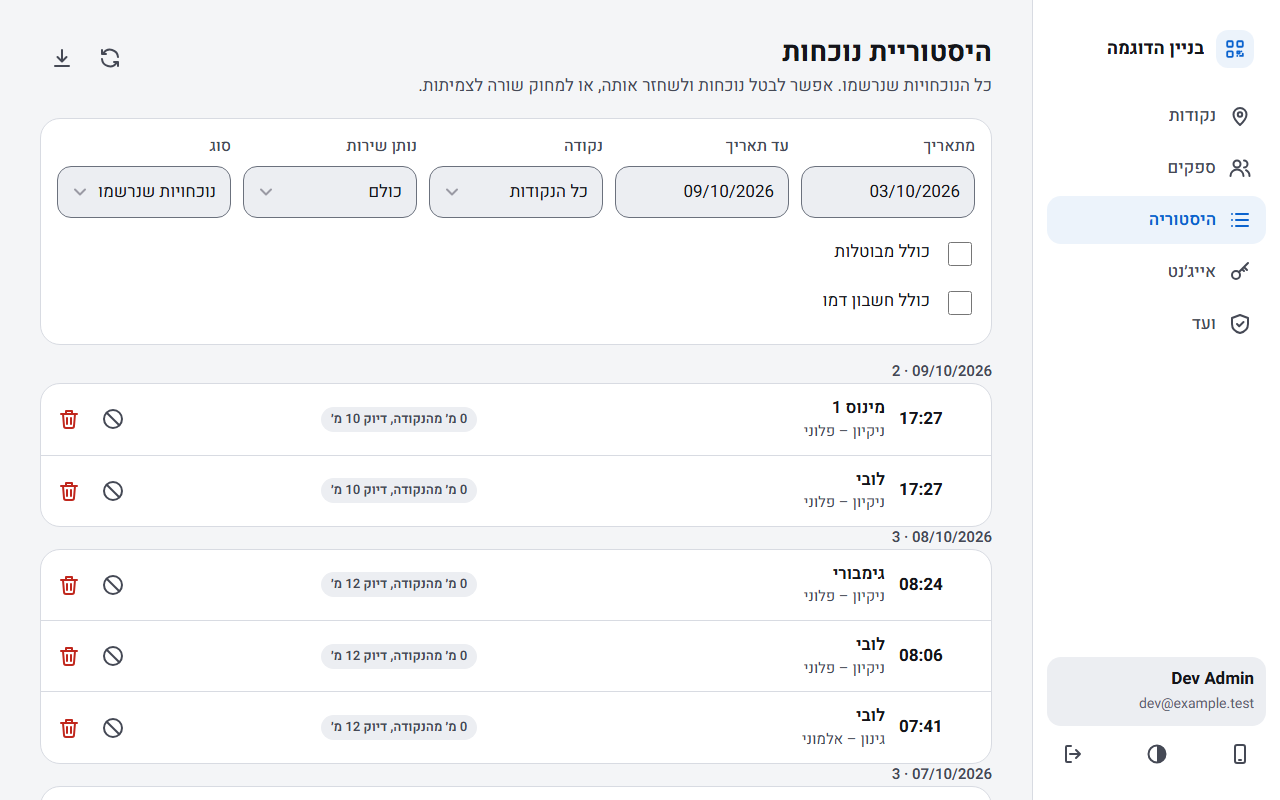
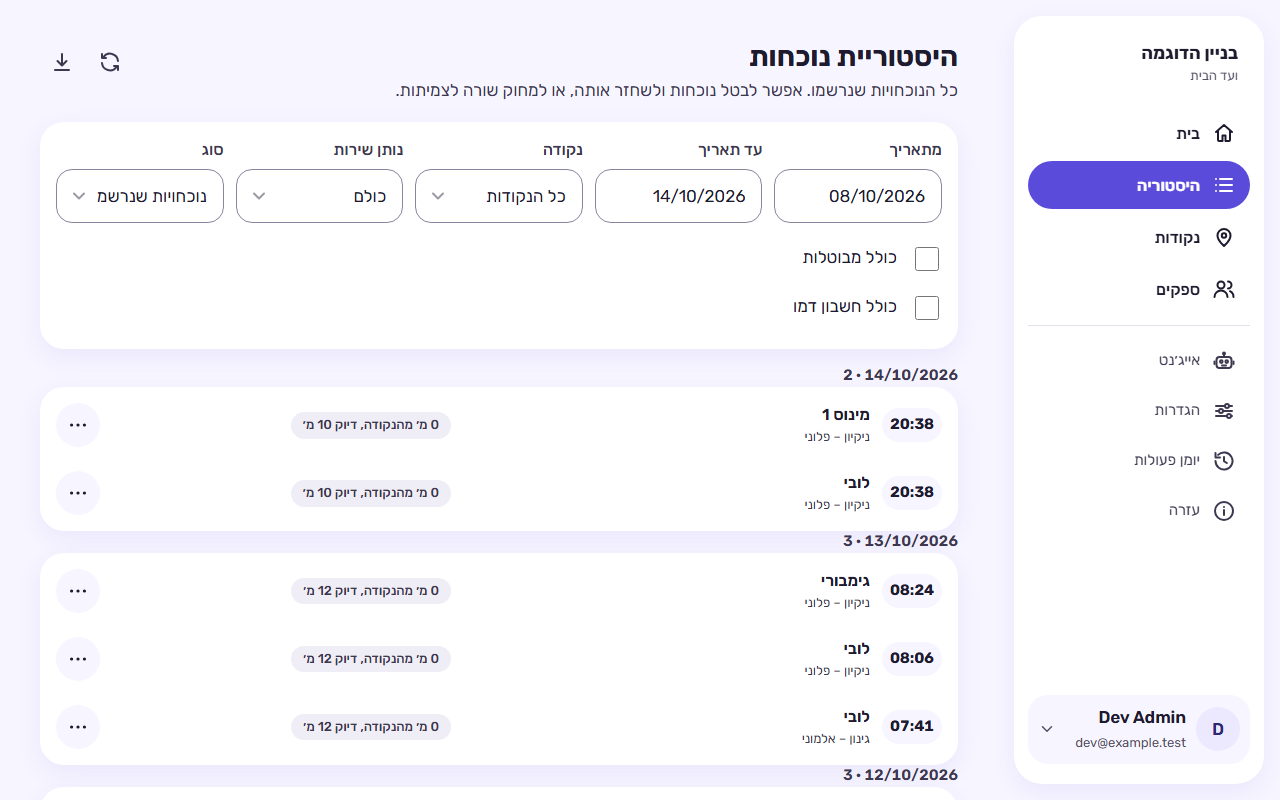
docs(design): the baseline and the screenshots after the redesign (#239)
🟢 **Documents, pictures and the script that takes them.** No code of the
app, nothing under `.github/`, `scripts/check-*`,
`.claude/`, `AGENTS.md` or `CLAUDE.md`, no migration, no budget, no e2e
baseline. All 18 changed files are on the list of
`scripts/vercel-ignore.mjs` (checked with its own `isSkippable` on the
changed files), so production is not redeployed when
this merges.

Task T8, the last of the topic "visual redesign B" (#222 to #238): the
documents describe the new look and measure it.

## Two things for the owner to know

1. **Two budgets have no headroom left:** the committee chunk's CSS
(5,828 of 5,828) and the precache (322,990 of 322,990).
This is in the baseline section; the next change that adds a byte there
needs a raised budget or something deleted first.
2. **`.claude/skills/ui-review/SKILL.md` still lists Heebo among the
fixed tokens.** A skill changes only in its own pull
request, so this one does not touch it; the coordinator raises it
separately.

## What changed

- **`docs/design/baseline.md`: a new dated section, 14/10/2026 (master
6ce5019).** A table of what changed for a person, with
the pull requests and the decisions D1 to D13; then the automated
measurements, the size of each budget against its
budget, the six font files and their precache bytes, what is still not
measured, and what is known and not fixed. Each
number has the command next to it. Earlier sections are untouched; the
section says what it replaces in them.
[…]

diff --git a/docs/design.md b/docs/design.md
@@ -21,8 +21,8 @@ the pilots and sessions with users: [`design/baseline.md`](design/baseline.md) a
 An entry is the rule, then **Why** (written for this app: field workers on phones, often old ones, sometimes offline;
 volunteer committee members who are not technical; Hebrew first, right to left; four languages in the provider app),
 **Source** (with its evidence level: research, standard, platform or expert opinion) and **Check**: an existing test, or
-`planned: <name>` for a check that another branch is adding (its pull request replaces the word with the path), or
-`review` when only a person or a reviewing agent can judge it. What `AGENTS.md` already holds (dates, the four
+`planned: <name>` for a check that another branch is adding, or `review` when only a person or a reviewing agent can
+judge it. What `AGENTS.md` already holds (dates, the four
 languages, phone and computer together, the order of tile actions, the Content-Security-Policy) is not repeated here.
 
 ## Forms and errors
@@ -61,10 +61,7 @@ and never clears what was typed.**
 - **Source:** GOV.UK error message, as in F3 (research); Impeccable
   [`harden`](https://github.com/pbakaus/impeccable/blob/main/skill/reference/harden.md), "Preserve user input on
   error"; Vercel, Forms, "Warn on unsaved changes before navigation" (expert opinion).
-- **Check:** `tests/components/dialog-unsaved-changes.test.jsx` (the dialog and every form of the committee app that has one),
-  and the tap outside and Esc in a real browser in `e2e/admin.spec.js`. The dialog asks only when a form passes `dirty` to
-  `Modal` (`useDirty` in `src/admin/ui.jsx`), and passes `busy` while its save is on its way (Esc and a tap outside then do
-  nothing), so a new form with fields does the same and adds its case to that test.
+- **Check:** `tests/components/dialog-unsaved-changes.test.jsx` (a new form adds its case) and `e2e/admin.spec.js` (tap outside, Esc).
 
 **F5. Text inputs are at least 16px on phones, so that iOS does not zoom.**
 - **Why:** iOS Safari zooms into a field under 16px and stays zoomed, which leaves the form cropped. The cure is the
@@ -72,7 +69,7 @@ and never clears what was typed.**
 - **Source:** Emil Kowalski
   [`mobile-native`](https://github.com/emilkowalski/skills/blob/main/skills/mobile-native/SKILL.md), "Page zooms into
   the input"; Vercel, Targets and input (expert opinion).
-- **Check:** `planned: e2e input font size`.
+- **Check:** `e2e/reflow.spec.js`, "F5 input font size on a phone".
 
 **F6. Never block paste. Give fields the right `autocomplete` and input type, so password managers and keyboards help.**
 - **Why:** a provider who signs in by password on a phone saves retyping when a password manager can fill the field,
@@ -99,8 +96,7 @@ deleting (see `AGENTS.md`, Rules for every change).**
 - **Source:** Impeccable
   [`clarify`](https://github.com/pbakaus/impeccable/blob/main/skill/reference/clarify.md), "Actions and navigation";
   Vercel, Feedback, "Confirm destructive actions or provide Undo window" (expert opinion).
-- **Check:** `review`. `e2e/admin.spec.js` measures the order of the actions in the menu of each tile and of each row of the History (the red delete last), not the wording
-  or the confirmation.
+- **Check:** `review`; `e2e/admin.spec.js` measures the order of the menu actions (the red delete last), not the wording.
 
 ## States
 
@@ -129,32 +125,34 @@ deleting (see `AGENTS.md`, Rules for every change).**
 ## Touch and layout
 
 **T1. Touch targets are at least 24 by 24 CSS px, and primary actions aim for 44.**
-- **Why:** field workers tap one-handed on old phones, often in a hurry. The committee uses the same buttons on a phone.
-  Phone and computer are changed together (`AGENTS.md`).
+- **Why:** field workers tap one-handed on old phones, often in a hurry, and the committee uses the same buttons.
 - **Source:** [WCAG 2.5.8](https://www.w3.org/WAI/WCAG22/Understanding/target-size-minimum.html) (standard, AA);
   [Apple HIG, Accessibility](https://developer.apple.com/design/human-interface-guidelines/accessibility) (platform;
   iOS default control size is 44 by 44 pt).
-- **Check:** `planned: axe wcag22aa target-size`, and `expectTouchTargets` in `e2e/error-boundary.spec.js` (44px high,
-  on the crash screen only).
+- **Check:** axe `wcag22aa` in `e2e/a11y.spec.js`; `expectTouchTargets` in `e2e/error-boundary.spec.js` (44px, crash screen).
 
 **T2. No horizontal scroll at 320px in any of the four languages, even with worst-case text (long names, plurals).**
-- **Why:** Russian and English words run longer than Hebrew ones and the layout starts from Hebrew, and the committee
-  types the names of providers and points. Plan for 30 to 40 percent more text than the source language.
+- **Why:** Russian and English run longer than Hebrew, and the committee types the names: plan for 30 to 40 percent more text.
 - **Source:** [WCAG 1.4.10](https://www.w3.org/WAI/WCAG22/Understanding/reflow.html) (standard); Emil Kowalski
   [`break-ui`](https://github.com/emilkowalski/skills/blob/main/skills/break-ui/SKILL.md); Impeccable `harden`
   (expert opinion).
-- **Check:** `planned: e2e 320px reflow` (`fitsTheWidth` in `e2e/error-boundary.spec.js` does it for one screen).
+- **Check:** `e2e/reflow.spec.js`, "T2 reflow at 320 px".
+
+**T3. A floating bar hides nothing a tap can reach: on a phone the page fades into the background colour behind it, and
+the end of every page stands clear above the fade.**
+- **Why:** content peeked out under and beside the floating tab bar, and a tap could reach a control that nobody could see.
+- **Source:** this project; the owner's decision of 14/10/2026 (D10 of the redesign), made on his iPhone.
+- **Check:** `e2e/admin.spec.js`, "the page fades out behind the tab bar of the phone", at 360 and 320 px.
 
 ## RTL and languages
 
 **R1. Layout uses logical CSS properties (inline and block). A physical property appears only in the list of exceptions,
 each with its reason.**
 - **Why:** one stylesheet serves Hebrew and Arabic (right to left) and English and Russian (left to right). A
-  `margin-left` is right in one and wrong in the other. The safe-area padding in `src/ui/ui.css` follows the physical
-  notch and is the kind of exception the list holds.
+  `margin-left` is right in one and wrong in the other.
 - **Source:** Ahmad Shadeed, [RTL Styling 101](https://rtlstyling.com/posts/rtl-styling/) (expert opinion, paraphrased);
   [Apple HIG, Right to left](https://developer.apple.com/design/human-interface-guidelines/right-to-left) (platform).
-- **Check:** `planned: tests/design-css.test.js` (it holds the list of exceptions).
+- **Check:** `tests/design-css.test.js` (the list of exceptions is `tests/design-budget.json`, each with its reason).
 
 **R2. Mirror icons that show direction (back, next, progress, a list's chevron). Never mirror numbers, clocks, media
 controls, the QR code, logos or checkmarks.**
@@ -166,37 +164,24 @@ controls, the QR code, logos or checkmarks.**
 - **Check:** `review`.
 
 **R3. Isolate mixed-direction runs (names, codes, times) so that they keep their order.**
-- **Why:** a Latin company name or a code inside Hebrew text scrambles the punctuation and digits next to it.
-  `translate()` in `src/i18n/core.js` wraps every inserted value in first-strong isolates; a value shown outside a
-  translated string gets `dir="auto"` (or `<bdi>`).
+- **Why:** a Latin company name or a code inside Hebrew text scrambles the punctuation and digits next to it;
+  `translate()` in `src/i18n/core.js` isolates every inserted value.
 - **Source:** [Unicode UAX #9](https://www.unicode.org/reports/tr9/) and the W3C
   [inline bidi markup article](https://www.w3.org/International/articles/inline-bidi-markup/) (standard).
-- **Check:** `src/i18n/core.js` and its test in `tests/i18n.test.js`.
+- **Check:** `tests/i18n.test.js`.
 
 ## Visual system
 
 **V1. Colours, font weights, spacing, radii and font sizes come from the tokens.**
 - **Why:** one set of tokens keeps the light and dark themes in step: a colour written in place passes in one theme and
-  fails in the other. The sizes follow the same rule: spacing (`--w-space-*`), radius (`--w-radius-*`) and font size
-  (`--w-font-*`) are three families of tokens, defined once on `:root` in `src/ui/base.css` next to the weight tokens, and
-  a size that has a token is written as the token. The scales are consolidated (the rare radii and font sizes
-  were folded into their neighbours), and a size that must keep its exact value, such as the room above the tab bar, is a
-  named layout constant (`--w-layout-*`, next to them), so no literal is left in a spacing, radius or font-size declaration.
-  The colours are tokens of each theme in `src/ui/ui.css` (the dark block, and the light one that sets every token again),
-  in these families: the surfaces (`--w-bg`, `--w-surface`, `--w-surface-2`, `--w-surface-3`); the lines (`--w-border`,
-  and `--w-field-border` with its `-hover`, 3:1 or more on every surface); the text (`--w-text`, `-2`, `-3`); the primary
-  colour (`--w-primary`, `-hover`) and the colour of the text on it (`--w-on-primary`, white in light and dark in dark,
-  because white on the light violet of the dark theme fails); the focus (`--w-focus`, `--w-focus-ring`); the four states,
-  each with its background and its line (`--w-success`, `--w-warn`, `--w-danger`, `--w-info`, `-bg`, `-line`); the
-  summary card and its text (`--w-hero`, `--w-on-hero`); four tints for tiles, chips and badges, each with the ink that is
-  read on it (`--w-tint-violet`, `-peach`, `-mint`, `-sky`, and `-ink`); the steps of the count cells (`--w-count-1` to
-  `4`); and the overlay and the three shadows (`--w-overlay`, `--w-shadow` for a card, `--w-shadow-raised` for the summary
-  card, `--w-shadow-pop` for a menu or a sheet). The page around the apps and the browser's bar take `--w-bg`. One
-  typeface, Rubik, is pinned, with every subset (Hebrew, Latin, Cyrillic, Arabic) in the offline precache.
+  fails in the other. Spacing (`--w-space-*`), radius (`--w-radius-*`) and font size (`--w-font-*`) are tokens on `:root` in
+  `src/ui/base.css`, and a size that must keep its exact value, such as the room above the tab bar, is a named layout
+  constant (`--w-layout-*`). The colours are tokens of each theme in `src/ui/ui.css`; the text on the primary colour is
+  white in light and dark in dark, because white on the light violet of the dark theme fails. One typeface, Rubik, is
+  pinned, with every subset (Hebrew, Latin, Cyrillic, Arabic) in the offline precache.
 - **Source:** this project; Refactoring UI (the advice to fix the spacing, sizing and type scales in advance;
   [book](https://refactoringui.com/), expert opinion, paraphrased).
-- **Check:** `tests/contrast.test.js`, `tests/typography.test.js`, and `tests/design-css.test.js` (a literal of a size that
-  has a token fails and names the token; the budget in `tests/design-budget.json` counts the sizes that have none).
+- **Check:** `tests/contrast.test.js`, `tests/typography.test.js`, `tests/design-css.test.js` (and `tests/design-budget.json`).
 
 **V2. Text has 4.5:1 contrast, UI parts and focus rings 3:1, in both themes, including every fixed colour (the danger
 button, the select chevron).**
@@ -215,13 +200,27 @@ button, the select chevron).**
 
 **V4. Motion is short (about 200 ms), never on an action repeated many times a day, respects `prefers-reduced-motion`,
 and adds no animation library (the size budget).**
-- **Why:** a scan or a row action used all day should answer at once, and an old phone drops frames on long
-  animations. A library is bytes that every phone downloads. `src/ui/ui.css` already shortens all motion for
-  `prefers-reduced-motion`.
+- **Why:** a scan or a row action used all day should answer at once, an old phone drops frames on long animations,
+  and a library is bytes that every phone downloads.
 - **Source:** Emil Kowalski
   [`emil-design-eng`](https://github.com/emilkowalski/skills/blob/main/skills/emil-design-eng/SKILL.md) (expert opinion,
   paraphrased); [WCAG 2.3.3](https://www.w3.org/WAI/WCAG22/Understanding/animation-from-interactions.html) (standard, AAA).
 - **Check:** `review`, and the bundle budget (`npm run size`, `scripts/check-bundle-size.json`).
+
+**V5. At the top of a committee screen the one filled thing is the action: an add button is a pill that says what it adds,
+and the person is a quiet circle with their Google photo, or their initial when there is no photo or it does not load.**
+- **Why:** two solid violet circles, the account and a round "+", stood one above the other, and the eye did not know where
+  to look; a lone "+" does not name what it adds (F7). A missing, refused or failed photo shows the initial, never a broken
+  picture, and the photo is decoration (`alt=""`) because the name is beside it.
+- **Source:** this project; the owner's decisions of 14/10/2026 (D11 and D12 of the redesign), made on his iPhone.
+- **Check:** `tests/admin-icon-buttons.test.js`, `e2e/admin.spec.js` (the headings), `tests/contrast.test.js`,
+  `tests/components/member-face.test.jsx`, `e2e/admin-photo.spec.js`.
+
+**V6. The sign for "scan" is a frame of four corner brackets, in the apps and in the app icon, and the icon is that frame
+in white on the primary violet.**
+- **Why:** the earlier drawing of a QR code read as a grid of apps, and the Home Screen icon was still the old blue.
+- **Source:** this project; the owner's decision of 14/10/2026 (D13 of the redesign), made on his iPhone from four options.
+- **Check:** `tests/pwa-icons.test.js`, `tests/png.test.js`; the signs inside the apps are `review` and `e2e/visual.spec.js`.
 
 ## Copy
 

diff --git a/docs/design/baseline.md b/docs/design/baseline.md
@@ -143,3 +143,123 @@ of the session script ("how many visits a provider made last week") now goes thr
   Filter ("סינון") button.
 - Not checked on a real iPhone yet: the two sheets (focus, the room above the home indicator) and the layout that a
   turned tablet keeps while a date is half typed. `docs/manual-ios-checklist.md` before the next release.
+
+## 14/10/2026, after the redesign to direction B (master 6ce5019)
+
+The same measurements as above, after #222 to #238: the twelve pull requests of the topic "visual redesign B". The
+owner's decision of 14/10/2026 replaced the one of 11/10/2026 that kept Heebo and the blue. Every number below was
+printed by the command next to it, run on 14/10/2026 on master at 6ce5019 with this pull request (documents, pictures
+and the script that takes them) on top, one Playwright project at a time, in a scratch schema. A row says so when a
+number needed a temporary line of code to be counted; that line was taken out again.
+
+### What changed
+
+| What a person sees | Before | Now | Pull request, decision |
+|---|---|---|---|
+| The typeface and the colours | Heebo and the blue; Russian and Arabic had no letters in it, so they read in the device's font | Rubik and a violet palette, light and dark; all four scripts are kept for use without a network; the edge of a field is at least 3:1 | #223 (D2, D4) |
+| Buttons, fields, cards, dialogs | on a phone only the filters and "More" opened from the bottom | pill buttons, cards that rest on a shadow, and on a phone every dialog is a sheet from the bottom (a computer keeps the centre) | #225 (D7) |
+| The actions of a tile or a row | four icon buttons on a point tile; icons on a history row | an edit button and a "more" button; the rest are in its menu, in one order, with the red delete last: points, providers, members, keys, history rows | #222, #231, #234 (D6) |
+| The top of the committee app | three icons: the provider app, light or dark, sign out | one account circle with a menu that holds all three; a quiet violet disc with the member's first letter | #227, #236 (D11) |
+| The member's face | the first letter only | the member's Google photo in the circle and on the member's card, and the letter when there is no photo or it does not load | #237 (D12) |
+| The tab bar on a phone | a bar across the bottom, every tab named | a floating pill, only the current tab named; the page fades out behind it, so nothing shows under or beside it | #227, #235 (D10) |
+| The add buttons | a round "+" | a pill that says what it adds (new point, new provider, new committee member, new key) | #236 (D11) |
+| Home | a table of the counts of seven days | a summary card with a bar for each day (DD/MM heads under the bars), the providers of the week, and tiles | #228 (D5) |
+| History and the audit log | rows divided by edges, and icon buttons on a history row | a soft card for each day, the time in a pill, one "more" button on a row | #234 |
+| The provider app | the previous look | cards, a violet card with three steps, result screens with a ring and a status circle (amber for "saved on the phone"), new texts in the four languages | #226 (D8, D9) |
+| The app icon and the scan sign | the Home Screen icon was the old blue; the QR drawing read as a grid of apps | a white scan frame on the app's violet, the same sign inside the apps, a robot head for the agent, a lock with a plus for a new password | #238 (D13) |
+| What production showed on the way | | each pull request was deployed when it merged, so for hours on 14/10/2026 the new colours stood beside some old structure | D1 |
+
+Three of these (D10, D11, D13) were findings from the owner's own iPhone on 14/10/2026, not from the five sessions below.
+
+What this section replaces in the ones above: the typeface and the blue that the decision of 11/10/2026 kept; the four
+icon buttons of a point tile (the second known problem of the first section, fixed by #187 and now gone with the icons);
+the committee tab bar of 12/10/2026 ("History, Points, Providers and More"), which is now Home, History, Points,
+Providers and More, as a floating pill; and "the screen that opens first: History", which Home has been since #201
+(13/10/2026, before the redesign).
+
+### Automated, run on every pull request
+
+| What | Value | Command or file |
+|---|---|---|
+| Accessibility violations (WCAG 2.1 A and AA, the WCAG 2.2 AA target size, axe best practices; both apps, light and dark) | 0 in 197 scans: 60 of the provider app, 129 of the committee app and 8 of the shared components; `e2e/a11y-baseline.js` lists no exception (0 entries) | `npx playwright test e2e/a11y.spec.js e2e/reflow.spec.js --project=android-chrome`: 34 passed, and the same with `--project=iphone-webkit`: 34 passed (9 tests of `e2e/a11y.spec.js` and 25 of `e2e/reflow.spec.js` in each). The scans were counted with a temporary line in `expectNoA11yViolations` (`e2e/fixtures.js`), in a separate run of `e2e/a11y.spec.js` on android-chrome (9 passed) |
+| Reflow at 320 px, with worst-case text, in the four languages of the provider app and in the committee app (rule T2) | no screen scrolls sideways | the 25 tests of `e2e/reflow.spec.js`, in the run above |
+| Inputs under 16 px on a phone (rule F5) | none | the two F5 tests of `e2e/reflow.spec.js`, in the run above |
+| Physical CSS properties outside the list of exceptions (rule R1) | 0; the list holds 4, each with its reason | `tests/design-css.test.js`, `tests/design-budget.json` |
+| Hard-coded spacing, radius and font-size values (rule V1, may only go down) | 0 (`literalBudget` is empty) | `tests/design-budget.json` |
+| Colour pairs, light and dark (rule V2) | 79 pairs in each theme, 158 in all (53 at 4.5:1 and 26 at 3:1 in each), all pass; 165 tests in the file | `npx vitest run tests/contrast.test.js` |
+| Visual baselines (both apps, phone and computer, light and dark) | 86 pictures: the 68 of 12/10/2026, and 4 for Home (#201), 4 for the account menu (#227), 2 for "saved on the phone" (#226), 8 for the photo (#237) | `ls e2e/__screenshots__/visual.spec.js \| wc -l`, and `git log --diff-filter=A 961a610..6ce5019` over that folder |
+| How strict the pictures are | a pixel counts when its colour moved further than 0.01; Playwright's default is 0.2 | `PIXEL_THRESHOLD` in `e2e/visual.spec.js` (owner decision of 14/10/2026, #233) |
+
+The thinnest colour pair in the light theme is the field border on the second surface at 3.07:1 (it needs 3:1); the
+thinnest text pair is the success green on its own tint, 4.67:1 (it needs 4.5:1). In the dark theme the thinnest is the
+focus ring on the darkest step of the count cells at 3.20:1, a token that no screen draws any more. They were read with a
+temporary copy of `tests/contrast.test.js` that logged each ratio. The pictures are compared on the Linux runner only
+(`docs/testing.md`), so this pull request's CI, not a laptop, is the check on them; this pull request changes none.
+
+### The size of what a phone downloads
+
+| Part | Bytes (brotli) | Budget | Before (12/10/2026) |
+|---|---|---|---|
+| Provider app, entry JS | 79,482 | 86,016 | 78,482 |
+| Provider app, entry CSS | 4,700 | 5,120 | 4,176 |
+| Committee app, chunk JS | 40,069 | 41,984 | 77,792 |
+| Committee app, chunk CSS | 5,828 | 5,828 | 9,442 |
+| Committee app, lazy chunks JS (the map) | 42,799 | 47,104 | in the chunk above |
+| Committee app, lazy chunks CSS (the map) | 5,668 | 6,656 | in the chunk above |
+| Precache, total | 322,990 (21 files) | 322,990 (21 files) | 239,776 (16 files) |
+
+`npm run size`, `scripts/check-bundle-size.json`, on an export of the commit with LF line endings (`git archive` with
+`core.autocrlf` off), which is what CI builds. The map left the committee chunk for a lazy chunk on 14/10/2026, which is
+not part of the redesign: it is why the committee chunk is about half of what it was, and the two lazy rows are new. The
+committee app's JavaScript in all is 82,868 (it was 77,792) and its CSS 11,496 (it was 9,442). The budgets that the
+redesign raised, each with its reason at the top of its pull request: the provider app's entry CSS from 4,608 to 5,120
+(#226), the committee chunk's CSS from 5,632 (set when the map left it) to 5,828 (#231, #234, #235, #237), and the
+precache from 256,000 to 322,990 (#223 to #238; its count of files went from 17 to 21, two of them the map's).
+
+**There is no headroom left** in two budgets: the committee chunk's CSS (5,828 of 5,828) and the precache (322,990 of
+322,990, 21 files of 21). The next byte of CSS in the committee app, or of a font or an icon, needs a raised budget in a
+pull request that says why, or something deleted first.
+
+### The fonts
+
+| File (`assets/rubik-<subset>-wght-normal`) | On disk (bytes) | In the precache (brotli) |
+|---|---|---|
+| hebrew | 9,348 | 9,336 |
+| cyrillic-ext | 12,388 | 12,387 |
+| cyrillic | 15,112 | 15,116 |
+| latin-ext | 19,400 | 19,398 |
+| arabic | 32,468 | 32,472 |
+| latin | 35,348 | 35,319 |
+| Six files | 124,064 | 124,028 |
+
+Six files cover the four scripts (Hebrew, Latin, Cyrillic, Arabic), and every one is in the precache (D2), so the
+provider app reads in its own typeface in Hebrew, English, Russian and Arabic with no network: they are 38.4 percent of
+the precache. The rest of the 322,990 bytes: the JavaScript and CSS of the provider app, the committee app and the map
+180,496; the three PNG icons 16,308 and the two SVG icons 638; the service worker's small files (the theme script, the
+page, the manifest) 1,520. The sizes on disk are from `vite build`, the bytes in the precache are from the precache list
+of `dist/sw.js`, read with `precacheUrls` and `sizeOfUrl` of `scripts/check-bundle-size.mjs`; the groups are sums of
+those.
+
+### Still not measured
+
+The friction in production and the five sessions with people, as in the first section. The sessions are where the new
+look (the icon-only tab bar, the account circle, the "more" menu) would be tried by the people who use it; the script
+has no question about them yet.
+
+### Known and not fixed
+
+- On a Windows checkout with `core.autocrlf=true`, `npm run size` measures 323,015 bytes for the precache, 25 over the
+  budget, because the working tree has CRLF in `index.html`, the theme script and the SVG icons. CI builds with LF and
+  measures 322,990. The numbers above are from the LF export.
+- Kept only because a test pins them, with no screen using them: the count-cell tokens `--w-count-1` to `4` and their
+  contrast checks (#228), and the `.a-icon-btn--danger` rules and `tone="primary"` of `IconButton` (#234, #236).
+- The new things are not checked on a real iPhone yet: the account circle with and without a photo, the fade behind the
+  tab bar and the new icon (`docs/manual-ios-checklist.md`, items 1 and 12, before the next release).
+- `docs/design.md` is at its limit of 250 lines (it was 251 after #223). This pull request adds the rules T3, V5 and V6
+  and makes room by shortening the entries whose check now exists (V1, V4, F4, R1, R3, T1, T2, D1) and by turning the
+  `planned:` checks of F5, T1, T2 and R1 into links to their tests. Two `planned:` checks are still not built: F2 (E2E
+  per form) and the contrast of the fixed colours in V2 (the select chevron, `#9a9aa4`, has no contrast test). The next
+  rule makes room the same way.
+- `.claude/skills/ui-review/SKILL.md` still lists Heebo among the fixed tokens (a skill changes only in its own pull
+  request). The `frontend-design` row of `docs/design/sources.md` said that the owner kept the current identity; this
+  pull request corrects it.

diff --git a/docs/design/sources.md b/docs/design/sources.md
@@ -29,7 +29,7 @@ column says what was read); a fact that could not be confirmed says "unverified"
 | Emil Kowalski other skills (`animate`, `animate-expo`, `review-animations`, `improve-animations`, `find-animation-opportunities`, `animation-vocabulary`, `apple-design`, `write-swift`, `pick-ui-library`, `prototype`, `ask-sonner`) | <https://github.com/emilkowalski/skills> | MIT, as above | expert opinion | rejected | Only their descriptions were read: motion design, React Native, Swift, a toast library, choosing libraries, side-by-side prototypes. V4 keeps motion small and the size budget rules out new libraries. | `e8a175de22ae1e49370fc144c1f3bb9aeedf988d` |
 | Impeccable: `clarify`, `harden`, `onboard` | <https://github.com/pbakaus/impeccable> (`skill/reference/`) | Apache-2.0 (LICENSE; NOTICE.md lists third-party material). Keep the licence and notice and mark local changes. | expert opinion | adopted as text (open licence, quoted with attribution) | F4, F7, D1, S1, T2, R1. Local changes when vendoring: the hand-off lines to `{{command_prefix}}impeccable polish` and the "Additional context needed" prompts are written for an agent and are dropped; `harden` shows `Intl.DateTimeFormat` for dates, which `AGENTS.md` forbids for anything a person sees; em dashes become hyphens. | `c63b8dd7dd5a5f3c32eaabe1af76d0694f863ed2` |
 | Impeccable binary, CLI, hooks and the other commands | <https://github.com/pbakaus/impeccable> | Apache-2.0, as above | expert opinion | rejected | The skill runs a launcher that downloads and starts an engine binary, and installs an edit hook for Claude Code and others. This repo has its own hook (`scripts/hooks/check-edit.mjs`) and keeps downloaded executables out. The other commands are about visual style, which is not restyled here. | `c63b8dd7dd5a5f3c32eaabe1af76d0694f863ed2` |
-| Anthropic `frontend-design` (writing section only) | <https://github.com/anthropics/skills/tree/main/skills/frontend-design> | Apache-2.0 (the skill's LICENSE.txt; its header says "Complete terms in LICENSE.txt") | expert opinion | adopted as text (open licence, quoted with attribution) | F7 and C1 take the section "More on writing in design". The rest is rejected: it pushes a distinctive visual direction, and the owner kept the current identity. The whole file is written as instructions to an agent. | `dbd4588f9e1033efb41dad4bef2f7947c8993d44` |
+| Anthropic `frontend-design` (writing section only) | <https://github.com/anthropics/skills/tree/main/skills/frontend-design> | Apache-2.0 (the skill's LICENSE.txt; its header says "Complete terms in LICENSE.txt") | expert opinion | adopted as text (open licence, quoted with attribution) | F7 and C1 take the section "More on writing in design". The rest is rejected: it pushes a distinctive visual direction, and the owner chose the identity himself (direction B, 14/10/2026, which replaced the one kept on 11/10/2026). The whole file is written as instructions to an agent. | `dbd4588f9e1033efb41dad4bef2f7947c8993d44` |
 | Nielsen Norman Group, ten usability heuristics | <https://www.nngroup.com/articles/ten-usability-heuristics/> and the policy <https://www.nngroup.com/copyright-and-reprint-info/> | Copyright Nielsen Norman Group, all rights reserved. The policy lets you quote a few words or lines, welcomes a link, and charges a fee to copy or translate. | expert opinion | adopted as our own rules (copyrighted, paraphrased with a link) | S3 and the checklist "Reviewing a UI change", in our own words. | read 11/10/2026 |
 | Ahmad Shadeed, RTL Styling 101 | <https://rtlstyling.com/> | No licence shown (the footer says only that Ahmad Shadeed made it); the GitHub repository it links to answers "not found". Treated as all rights reserved. | expert opinion | adopted as our own rules (copyrighted, paraphrased with a link) | R1: its section on CSS logical properties. | read 11/10/2026 |
 | Refactoring UI | <https://refactoringui.com/> | Copyright 2026 The UI Company Inc. (page footer). | expert opinion | adopted as our own rules (copyrighted, paraphrased with a link) | V1 paraphrases the advice to fix spacing, sizing and type scales in advance. Taken from the book's contents list on its page; the book itself was not read. | read 11/10/2026 |

diff --git a/docs/manual-ios-checklist.md b/docs/manual-ios-checklist.md
@@ -50,12 +50,16 @@ Mark each item OK or write what you saw. Take a screenshot of anything that look
     arrows point the right way, and no text is cut off.
 11. [ ] Typing a password: the keyboard does not zoom the page, the password manager offers the saved login, and the
     show/hide eye works.
-12. [ ] Committee app (`/admin`) on the phone: it opens on Home ("בית"), and the bar at the bottom has five buttons
-    (Home, History, Points, Providers, More), each label whole on one line. The page fades out behind the bar: no card
-    or number shows under it or beside it, a tap on the blank part beside or under it opens nothing, and at the end of a long page the last
-    card stands clear above the fade. Home greets by the hour and the member's first
-    name, and its summary card has a bar for each day with today at the left end and the seven day heads under the bars
-    (DD/MM), and fits the width (nothing scrolls sideways; on the narrowest phone a head breaks after its slash). A bar
+12. [ ] Committee app (`/admin`) on the phone: it opens on Home ("בית"), and the bar at the bottom floats like a pill
+    above the home indicator, with five buttons (Home, History, Points, Providers, More). Only the current one shows its
+    name, whole on one line; the others are icons, and VoiceOver reads the name of each. The page fades out behind the
+    bar: no card or number shows under it or beside it, a tap on the blank part beside or under it opens nothing, and at the end of a long page the last
+    card stands clear above the fade. At the top, the account circle is a pale violet disc with the member's first
+    letter, or the member's Google photo when they signed in with one: the photo fills the disc, and where it cannot
+    load the letter shows in its place, never a broken picture. A tap opens the account menu (name and e-mail, light,
+    dark or like the device, the provider app, sign out) whole inside the screen, and a tap outside closes it. Home
+    greets by the hour and the member's first name, and its summary card has a bar for each day with today at the left
+    end and the seven day heads under the bars (DD/MM), and fits the width (nothing scrolls sideways; on the narrowest phone a head breaks after its slash). A bar
     with visits opens History for that day, a provider's row opens History for that provider and the seven days, each
     with that many rows, and Back returns to Home. More ("עוד") opens a sheet
     from the bottom with the other four screens, its last row clear of the home indicator; after choosing one,

diff --git a/docs/screenshots/README.md b/docs/screenshots/README.md
@@ -6,8 +6,9 @@ like before installing anything. Both apps are in Hebrew, in the light theme (on
 **They show only the fake sample data** that `scripts/dev-seed.mjs` makes in a scratch schema (an invented building, five
 invented providers, four points on an invented position, and sixteen visits that `scripts/screenshots/seed-history.mjs`
 adds). No real name, address, phone number or coordinate is in them, and none may be: look at every picture before you
-commit it. The dates and times in them are relative to the day that they were taken: the visits are one to five days old, and
-the check-in of the provider app is made at the moment of the run. Every point in them checks the location, as the committee
+commit it. The dates and times in them are relative to the day that they were taken: the visits are one to five days old, the
+check-in of the provider app is made at the moment of the run, and the Home screen greets by the hour of the run and shows
+the seven days that end on that day. Every point in them checks the location, as the committee
 app saves points: `seed-history.mjs` sets that in the run's own schema, while the sample seed keeps the older modes that the
 end-to-end tests use.
 
@@ -16,9 +17,11 @@ end-to-end tests use.
 | `provider-phone-sign-in.png` | The provider app on a phone: a scan link opens the list of names to pick from |
 | `provider-phone-check-in.png` | The same app after signing in: the check-in is recorded |
 | `provider-phone-saved-offline.png` | The same app with no network: the visit is kept on the phone and is sent by itself later |
+| `committee-phone-home.png` | The committee app on a phone: the Home screen, the summary card of the week (the screen that opens first) |
 | `committee-phone-points.png` | The committee app on a phone: the Points tab |
 | `committee-phone-history.png` | The committee app on a phone: the History tab, scrolled to the visits |
-| `committee-computer-points.png` | The committee app on a computer (1280 px wide): the Points tab with the side rail |
+| `committee-computer-home.png` | The committee app on a computer (1280 px wide): the Home screen with the side rail |
+| `committee-computer-points.png` | The same, the Points tab |
 | `committee-computer-history.png` | The same, the History tab |
 | `committee-computer-help.png` | The same, the help screen ("How to work with the system") |
 | `committee-computer-points-dark.png` | The same, the Points tab in the dark theme |

diff --git a/README.md b/README.md
@@ -11,7 +11,7 @@ It is free and open source (MIT). Any building committee can install its own cop
 
 | Provider app: pick your name (first time on a phone) | Provider app: the check-in is recorded | Committee app on a phone: the points |
 |:---:|:---:|:---:|
-| <img src="docs/screenshots/provider-phone-sign-in.png" width="220" alt="The provider app on a phone, opened by a scan. A list of five names to choose from, in Hebrew."> | <img src="docs/screenshots/provider-phone-check-in.png" width="220" alt="The provider app after signing in. A green check mark and a message that the attendance was recorded, with the point, the time and the provider."> | <img src="docs/screenshots/committee-phone-points.png" width="220" alt="The committee app on a phone, the Points tab. A list of scan points, each with its QR, edit, switch off and delete buttons."> |
+| <img src="docs/screenshots/provider-phone-sign-in.png" width="220" alt="The provider app on a phone, opened by a scan. A list of five names to choose from, in Hebrew."> | <img src="docs/screenshots/provider-phone-check-in.png" width="220" alt="The provider app after signing in. A green check mark and a message that the attendance was recorded, with the point, the time and the provider."> | <img src="docs/screenshots/committee-phone-points.png" width="220" alt="The committee app on a phone, the Points tab. A list of scan points under a button that adds one, each with its edit button and a "more" button."> |
 
 <p align="center">
   <img src="docs/screenshots/committee-computer-history.png" width="720" alt="The committee app on a computer, the History tab. Filters on top, and the visits grouped by day, each with its point, provider and time.">
